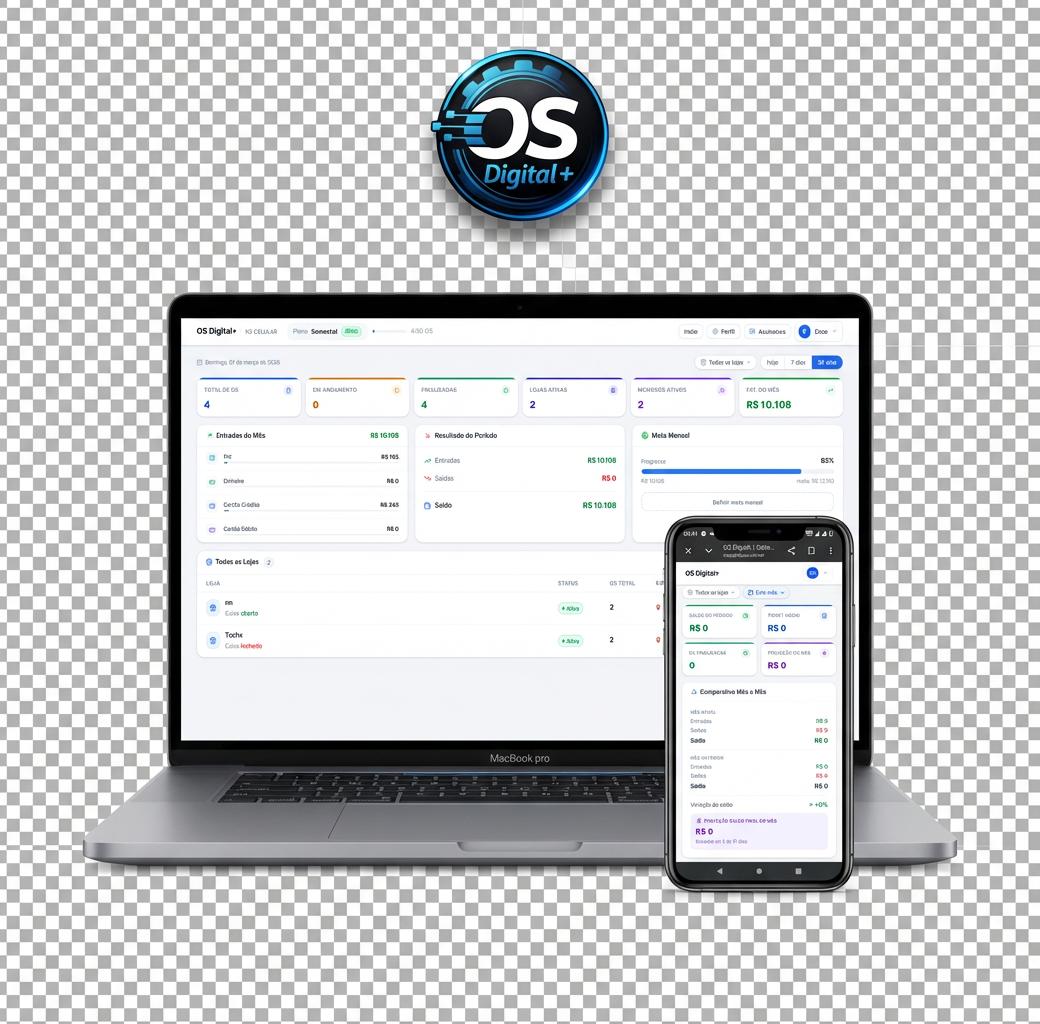
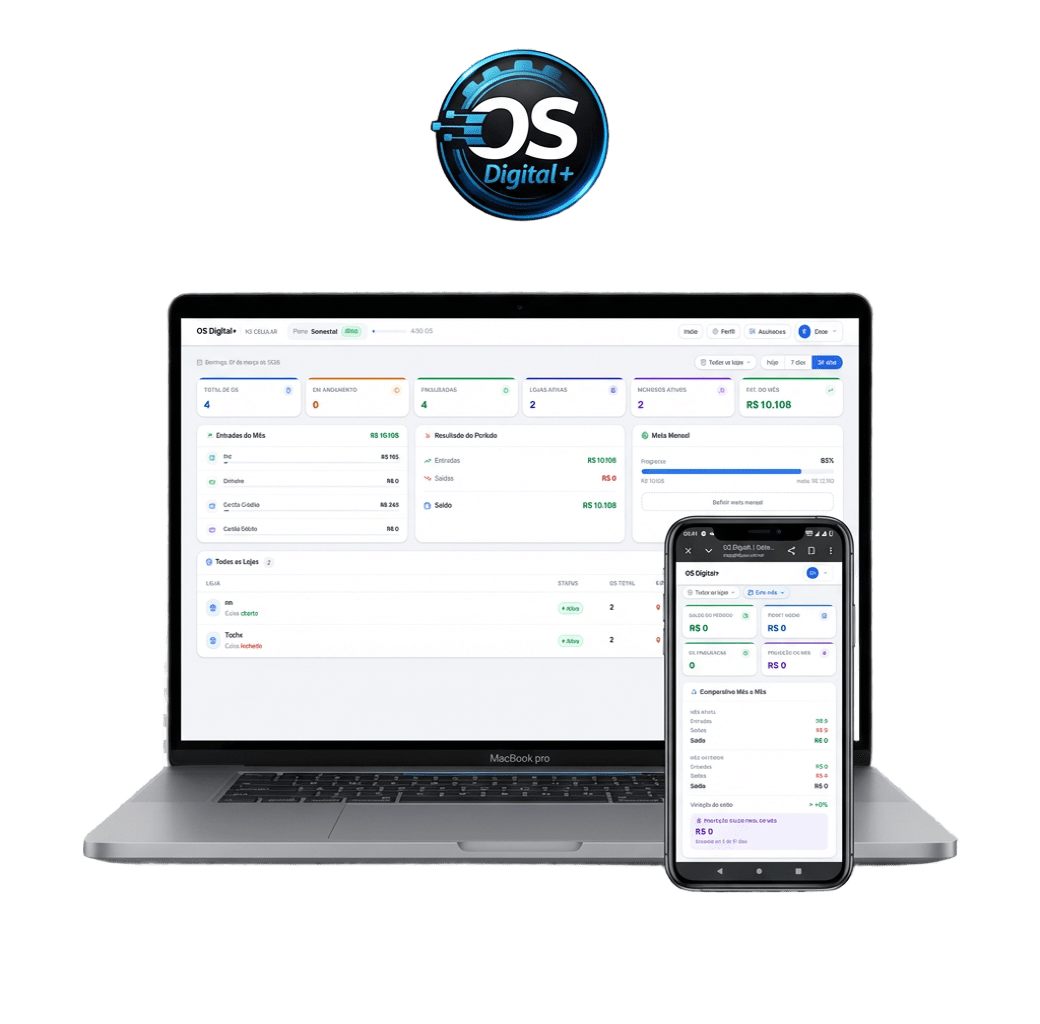
fix: update hero image with responsive size
Update hero-mockup.png to new version and set responsive size.

diff --git a/components/hero.tsx b/components/hero.tsx
@@ -20,7 +20,7 @@ export function Hero() {
               src="/hero-mockup.png"
               alt="OS Digital+ Dashboard e Mobile"
               className="max-w-full h-auto"
-              style={{ maxWidth: 'clamp(300px, 85vw, 480px)', display: 'block', margin: '0 auto' }}
+              style={{ maxWidth: 'clamp(280px, 75vw, 420px)', display: 'block', margin: '0 auto' }}
               loading="eager"
             />
           </div>
